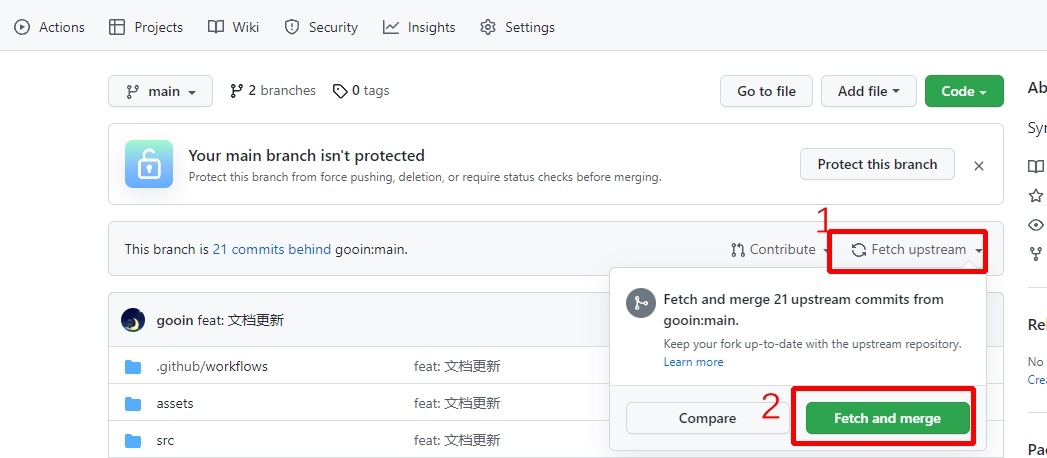
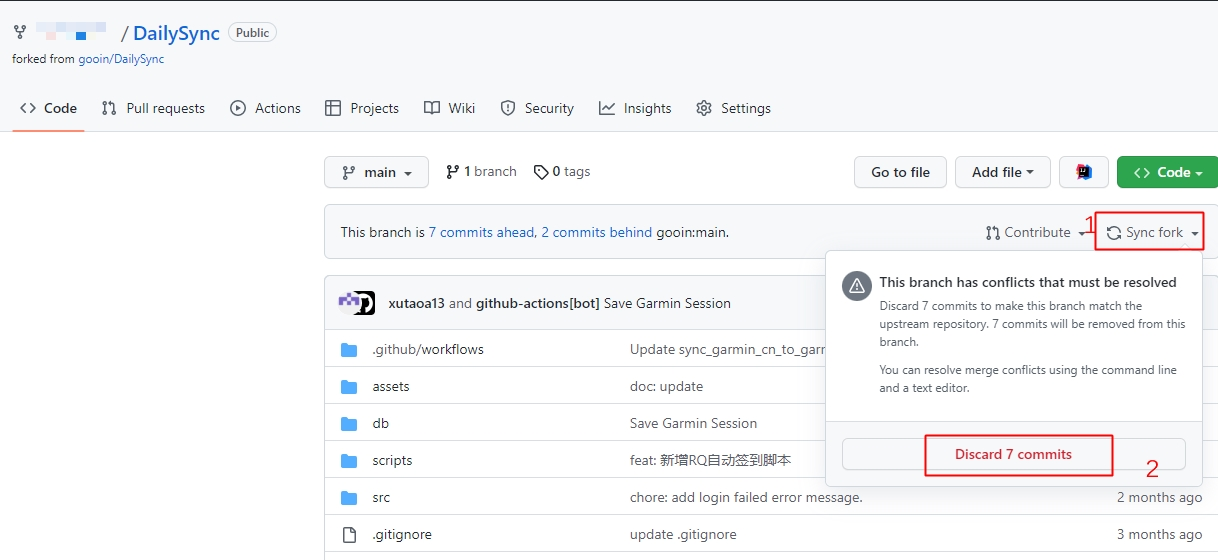
doc: 文档更新，增加前置条件章节，更换更新代码图片

diff --git a/README.md b/README.md
@@ -152,14 +152,9 @@
 如果按照视频还是无法达到预期的效果(包括佳明国际区点不进去，跳转到com.cn、github 添加 secrets 没有反应等)，请自行解决不可描述的网络问题。 如果`github`
 上的图片看不到，那大概率是被墙了，看图请移步 [知乎链接](https://zhuanlan.zhihu.com/p/543799435), 文档内容以`github` 版本为准，其他地方可能不是最新的。
 
+## 教程开始
+
 ### 迁移已有运动数据，并开启自动同步功能
-
-流程：
-
-`【运动】 🏃/🚴/🏊` --> GarminCN --> This Tool ⚡ --> Garmin Global --> Strava
-
-思路：
-> Strava仅支持关联国际区的佳明账号，所以需要提前自己创建国际区佳明账号，并用此账号关联绑定Strava
 
 
 [佳明国际区网址](https://connect.garmin.com/signin/)
@@ -168,7 +163,8 @@
 
 [Strava网址](https://www.strava.com/)
 
-前置条件：**注册好佳明国际区的帐号及Strava账号，并已经将Strava与佳明国际区账号关联，并开启Strava数据权限（下图）**
+#### 前置条件：
+##### **注册好佳明国际区的帐号及Strava账号，并已经将Strava与佳明国际区账号关联，并开启Strava数据权限（下图）**
 
 ------
 **如果看不到此文档的图片，请移步 [知乎链接](https://zhuanlan.zhihu.com/p/543799435)**
@@ -176,11 +172,16 @@
 
 ![consent](./assets/consent.png)
 
-如果是新注册的国际区账号，请确保账号隐私设置中的`存储和处理` 是 `同意`状态，`设备上传`是`已启用` 状态(下图)
+##### 佳明账号隐私设置
+如果是新注册的账号，包括中国区与国际区，请确保账号隐私设置中的`存储和处理` 是 `同意`状态，`设备上传`是`已启用` 状态(下图)
 ，否则上传数据会报`412`错误码：`User explicity revoked consent for uploading files.`
 ![connect_permission](./assets/connect_permission.png)
 
-如果你的中国区账号开启了两步验证，登录时需要验证码，请按照图中设置关闭
+##### 关闭佳明账号两步验证
+
+如果的佳明账号在登录网页版Connect时，需要填入验证码，说明您开启了两步验证，需要关闭此选项才能使用本工具，如果不需要验证码就能登录，可跳过此步骤。
+
+点击下方链接，请按照图中设置关闭
 
 [https://www.garmin.cn/zh-CN/account/security/mfa](https://www.garmin.cn/zh-CN/account/security/mfa)
 ![mfa](./assets/mfa.jpg)
